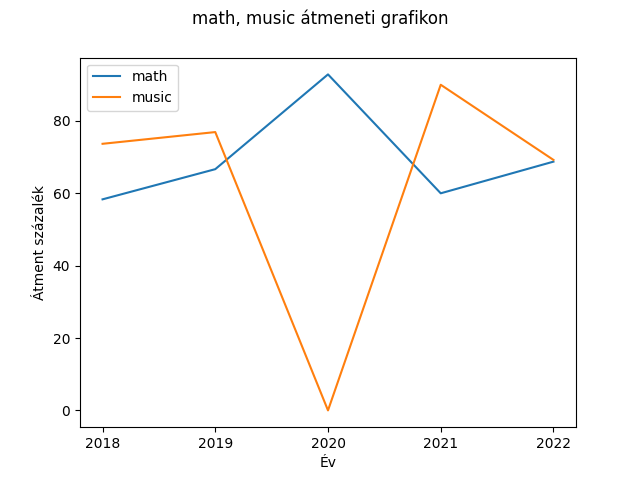
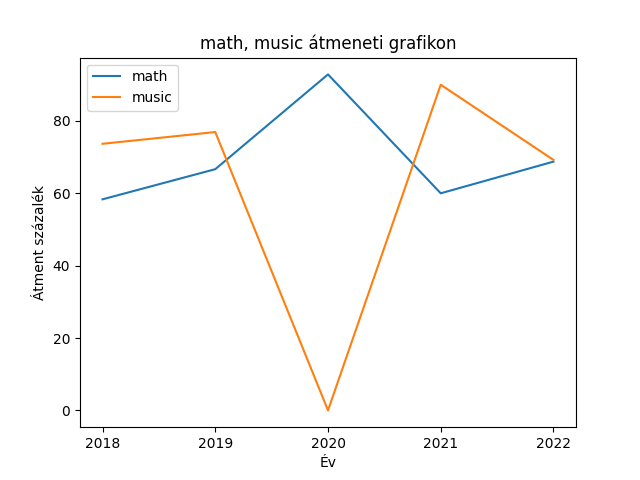
Done

Changed region(s): [[0.2812, 0.0, 0.7188, 0.125]]

diff --git a/main.py b/main.py
@@ -1,0 +1,61 @@
+import os
+import json
+import matplotlib.pyplot as plt
+def result_plot(subject: str, year: int):
+    try:
+        with open(os.path.join('results', str(year) , subject + '.json'), encoding='utf-8') as f:
+            data = json.load(f)
+        grades={}
+        for grade in data.values():
+            try:
+                grades[grade] += 1
+            except:
+                grades[grade] = 1
+        grades = dict(sorted(grades.items()))
+    except FileNotFoundError:
+        exit("A fájl nem található!")
+
+    max_y = max(grades.values())
+
+    plt.bar((grades.keys()), grades.values())
+    plt.title(f'Eloszlás {year} {subject}')
+    plt.xlabel('Érdemjegy')
+    plt.ylabel('Darab')
+    plt.xticks([0,1,2,3,4,5])
+    plt.yticks(range(max_y+1))
+    plt.savefig(f'{subject}_{year}_results1.png')
+
+
+def result_plot_over_years(subjects: list):
+    all_percentage={}
+    for year in os.listdir('results'):
+        for subject in subjects:
+            passed = 0
+            try:
+                with open(os.path.join('results', year, subject + '.json')) as f:
+                    data=json.load(f)
+                for value in data.values():
+                    if value > 1:
+                        passed += 1
+                passed_percentage = passed/len(data)*100
+                try:
+                    all_percentage[subject].append(passed_percentage)
+                except KeyError:
+                    all_percentage[subject] = [passed_percentage]
+            except FileNotFoundError:
+                try:
+                    all_percentage[subject].append(0)
+                except KeyError:
+                    all_percentage[subject] = [passed_percentage]
+    title = ', '.join(map(str, subjects)) + ' átmeneti grafikon'
+    output = '_'.join(map(str, subjects)) + '_results.png'
+    for sub in subjects:
+        plt.plot(os.listdir('results'), all_percentage[sub], label=sub)
+        plt.xlabel('Év')
+        plt.ylabel('Átment százalék')
+        plt.title(title)
+        plt.legend()
+        plt.savefig(output)
+            
+
+result_plot_over_years(['math', 'music'])
